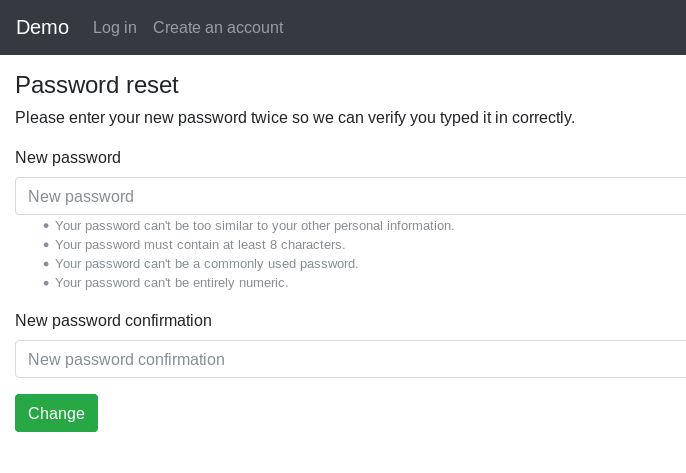
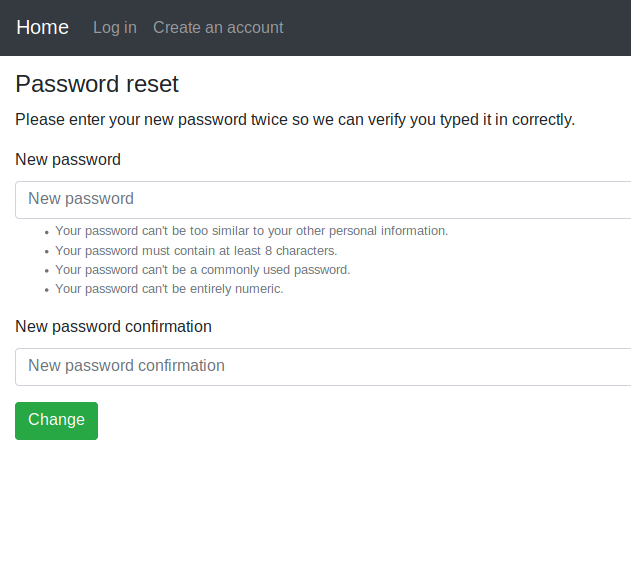
Update the screenshots

Changed region(s): [[0.0, 0.0296, 1.0, 0.7992], [0.0, 0.8288, 0.1506, 0.9175]]

diff --git a/README.md b/README.md
@@ -4,9 +4,9 @@ An example of Django project with basic user functionality.
 
 ## Screenshots
 
-| Log In | Registration | Authorized page |
+| Log In | Create an account | Authorized page |
 | -------|--------------|-----------------|
-| <img src="./screenshots/login.png" width="200"> | <img src="./screenshots/register.png" width="200"> | <img src="./screenshots/authorized_page.png" width="200"> |
+| <img src="./screenshots/login.png" width="200"> | <img src="./screenshots/create_an_account.png" width="200"> | <img src="./screenshots/authorized_page.png" width="200"> |
 
 | Password reset | Set new password | Password change |
 | ---------------|------------------|-----------------|
@@ -14,19 +14,20 @@ An example of Django project with basic user functionality.
 
 ## Functionality
 
-- Sign In
+- Log in
     - via username & password
     - via email & password
     - via email or username & password
     - with a remember me checkbox (optional)
-- Sign Up
-- Log Out
-- Profile Activation via Email
-- Password Reset
-- Re-send Activation Code
-- Password Changing
-- Email Changing
-- Profile Data Changing
+- Create an account
+- Log out
+- Profile activation via email
+- Password reset
+- Recover a username
+- Resend activation code
+- Password changing
+- Email changing
+- Profile data changing
 - Multilingual: English, Russian, Ukrainian, and Simplified Chinese
 
 
